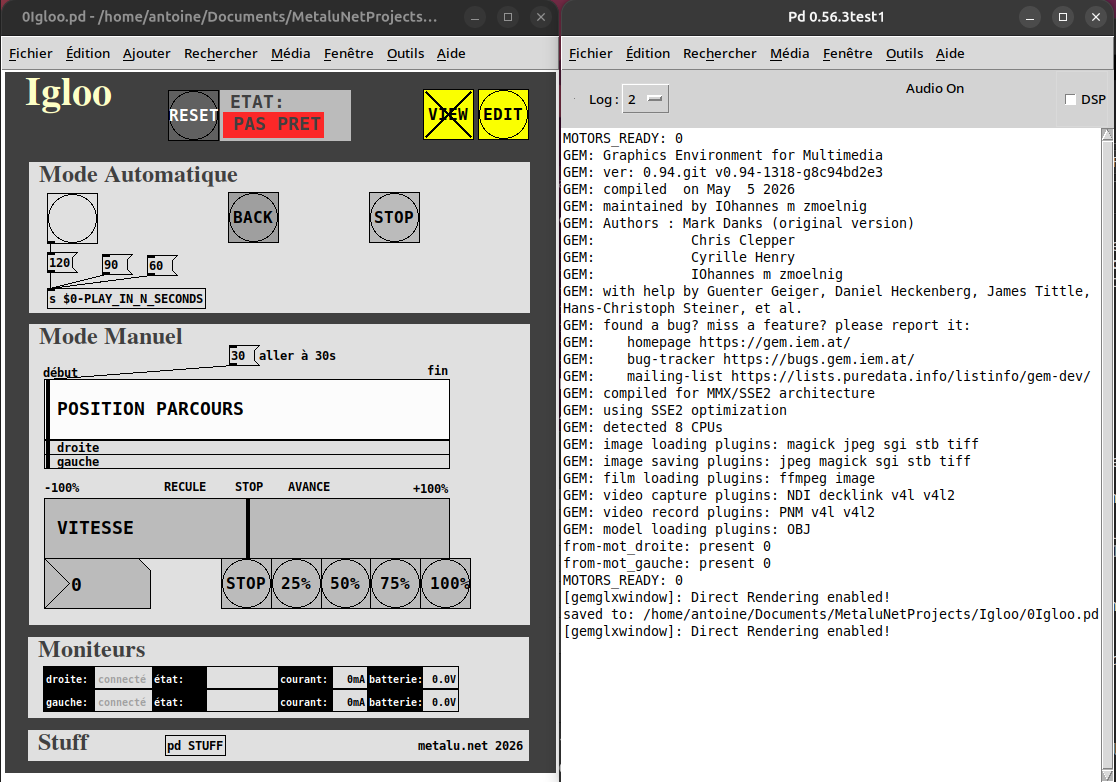
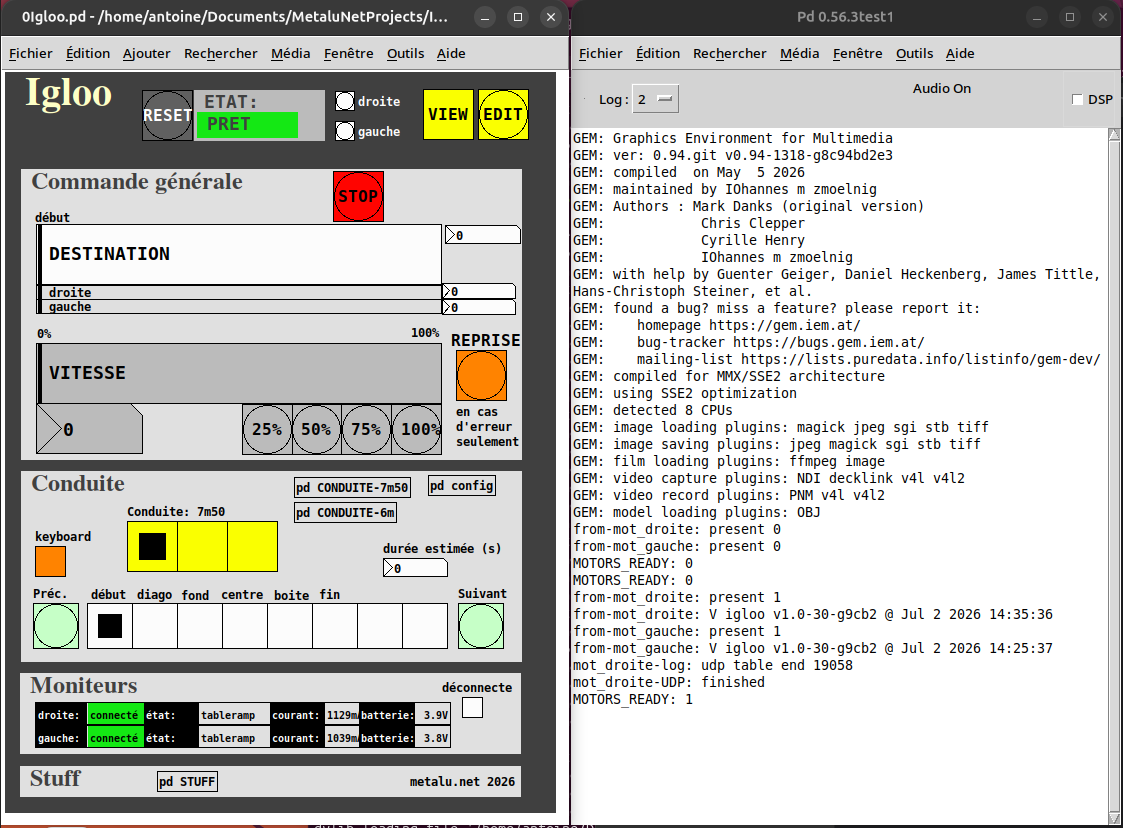
update docs

diff --git a/README.md b/README.md
@@ -32,42 +32,40 @@ Dans la *console* de Pd (la fenêtre de texte à droite sur la capture d'écran,
 La fenêtre principale comporte plusieurs parties :
 
 - ### Le RESET
-    Ce bouton permet d'initialiser la position de l'igloo et d'envoyer le programme de la trajectoire aux moteurs.  
+    Ce bouton permet d'initialiser la position de l'igloo et, si besoin, d'envoyer le programme de la trajectoire aux moteurs.  
+    Les boutons "droite" et "gauche" permettent de renvoyer la séquence à l'un des moteurs, si la tentative précédente a échoué.
 
     L'igloo doit être correctement positionné à sa place de départ, avant de confirmer le RESET. A la suite du RESET, l'indicateur **ETAT** doit afficher **PRET** ; dans le cas contraire, cela signifie que l'un des deux moteurs n'est pas connecté ou présente un problème (se reporter aux *Moniteurs* pour avoir des indications sur le problème).
 
 - ### VIEW /EDIT
-    Le bouton **VIEW** permet d'afficher la trajectoire dans une fenêtre graphique. **Ne pas manipuler ce bouton pendant le déplacement réel de l'igloo** (l'ouverture de la fenêtre graphique déclenche l'arrêt des moteurs).
+    Le bouton **VIEW** permet d'afficher la trajectoire dans une fenêtre graphique :
 
-![visu](img/visu.gif)
+    ![visu](img/visu.gif)
 
-Le bouton **EDIT** ouvre la fenêtre d'édition de la trajectoire (cf chapitre *Édition de la trajectoire*).
+    Le bouton **EDIT** ouvre la fenêtre d'édition de la trajectoire (cf chapitre *Édition de la trajectoire*).
 
-- ### Mode Automatique
-    Ce mode permet de lancer la trajectoire en mode automatique, en spécifiant le temps de parcours voulu en secondes.  
-    Ce mode garanti la synchronisation des 2 moteurs, même si la liaison wifi n'est pas très bonne.  
-    Le bouton **PLAY**, dont le nom ne s'affiche que quand l'**ETAT** est **PRET**, est relié sur le *message* `[120(` qui va demander une lecture de la trajectoire en 120 secondes. Il est aussi possible de cliquer directement sur le *message* `[120(` ou sur les autres *messages*, comme `[90(`. Il est aussi possible de changer la valeur des messages ou d'en ajouter d'autres :  
-    - passer en mode *Edition* via le menu *Edition/Mode édition* ou `Ctrl+E`  
-    - cliquer dans un *message* et éditer sa valeur
-    - ou ajouter un nouveau *message* (menu *Ajouter/Message*) avec la valeur désirée, et le connecte sur la case `[s $0-PLAY_IN_N_SECONDS]` (tirer le "fil" en partant du message créé)
-    - sauver le *patch* (*Fichier/Enregistrer* ou `Ctrl+S`)
-    - sortir du mode *Edition* (`Ctrl+E`)
-    
-    Remarque : le temps minimum du parcours (correspondant à la vitesse 100%) est celui indiqué dans la fenêtre *Édition de la trajectoire* : on ne peut pas aller plus vite que la trajectoire programmée, mais on peut aller plus lentement.
+- ### Commande générale
+    Le slider **DESTINATION** permet de commander la destination des moteurs, le long de la trajectoire programmée. La valeur correspond au temps de la séquence originale (dans la fenêtre d'Édition).
 
-    Le bouton **BACK** permet de revenir à l'emplacement de départ après que la trajectoire aie été jouée, ou après l'appui sur **STOP**.
+    Le slider **VITESSE** permet de commander la vitesse globale du déplacement, de 0 à 100% de la vitesse de la séquence originale.
 
-- ### Mode Manuel
-    Ce mode permet de se déplacer librement sur le parcours, soit via une commande directe de position, soit via une commande de vitesse.  
+    Le bouton **REPRISE** permet de tenter de récupérer la lecture, après qu'une erreur ait été détectée et ait nécessité l'arrêt d'urgence ; en général, l'erreur est une surcharge de puissance, vraisemblablement causée par un obstacle sur le parcours.  
+Il peut arriver qu'il faille appuyer plusieurs fois avant que le voyant **PRET** repasse au vert ; dans ce cas, attendre quelques secondes avant de rappuyer sur **REPRISE**.  
+Il peut aussi arriver que les moteurs ne puissent pas récupérer la situation... dans ce cas un RESET est nécessaire.
 
-    Ce mode nécessite une bonne liaison wifi avec les moteurs ; dans le cas contraire, de légères erreurs de trajectoires sont possibles.
+- ### Conduite
+    Ce panneau permet de définir et déclencher un certain nombre de points d'arrêt (début, diago, fond etc.).  
+    Ces points sont définis par une destination et (optionnellement) une vitesse. Plusieurs définitions ("conduites") peuvent exister, par exemple "7m50" et "6m", s'appliquant à différentes trajectoires.  
+    Pour chaque "conduite", on définit, pour chaque point, la destination et la vitesse si elle doit changer :  
+
+    ![conduite-7m50](img/conduite-7m50.png)
 
 - ### Moniteurs
     Ce sont des indicateurs sur l'état des deux moteurs, "droite" et "gauche".  
 
     L'indicateur le plus important est "*connecté*", qui doit s'allumer en vert quand la connexion est établie.  
 
-    Un autre indicateur important est l'état de la charge de la batterie, qui doit toujours être supérieure à 11.5V, idéalement au dessus de 12.5V. Il est important de recharger les batteries le plus souvent possible, et surtout de ne **jamais laisser des batteries se décharger** pendant le stockage. C'est leur "mort" assurée.  
+    Un autre indicateur important est l'état de la charge de la batterie, qui doit toujours être supérieure à 11.5V, idéalement autour de 12.5V. Il est important de recharger les batteries le plus souvent possible, et surtout de ne **jamais laisser des batteries se décharger** pendant le stockage. C'est leur "mort" assurée.  
 
     L'indicateur de courant donne une idée de la force qu'exerce un moteur. Une valeur anormalement élevée (à définir d'après les essais) peut signifier que quelque chose "coince" mécaniquement quelque part.
 
